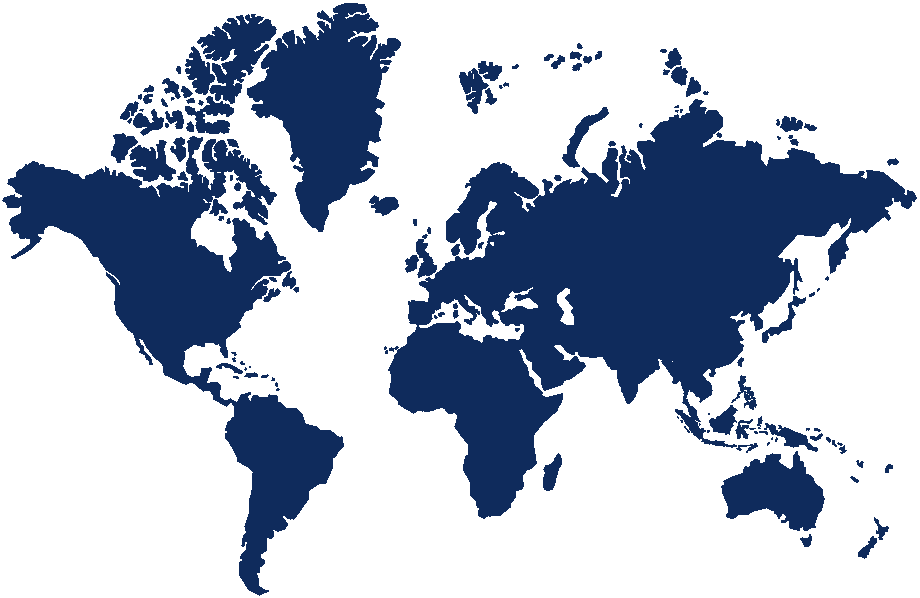
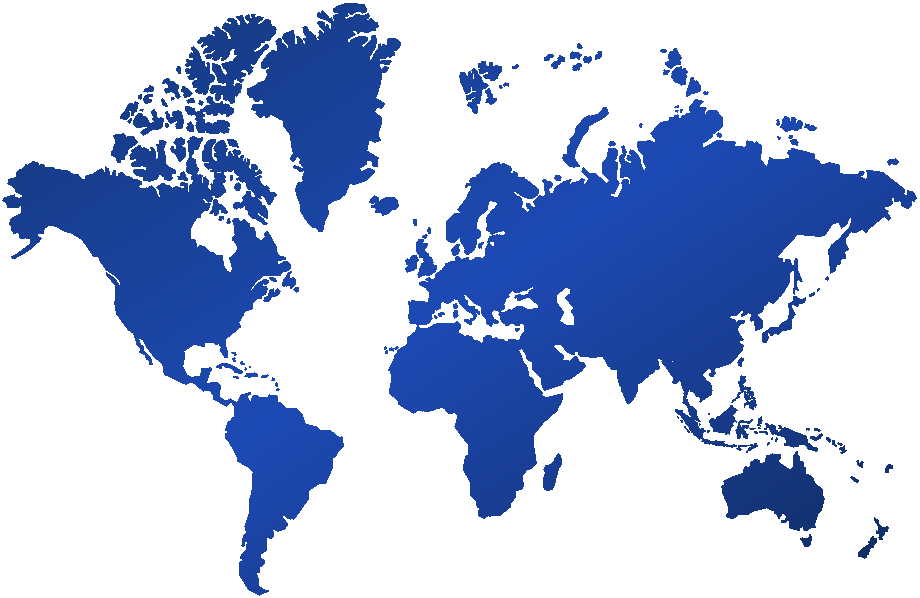
style(hero): match hero floating service card default and hover gradients with button states

diff --git a/styles.css b/styles.css
@@ -2680,7 +2680,7 @@ body.dark-theme .why-card-content .why-card-desc {
   bottom: calc(100% + 10px);
   left: 50%;
   transform: translateX(-50%);
-  background: #0f172a;
+  background: linear-gradient(135deg, #143877 0%, #1e4ab5 50%, #0f2b5c 100%);
   color: #ffffff;
   padding: 6px 14px;
   border-radius: var(--radius-pill);
@@ -2688,12 +2688,13 @@ body.dark-theme .why-card-content .why-card-desc {
   align-items: center;
   gap: 7px;
   white-space: nowrap;
-  box-shadow: 0 6px 20px rgba(15, 23, 42, 0.35);
-  border: 1px solid rgba(255, 255, 255, 0.15);
+  box-shadow: 0 8px 24px -3px rgba(6, 18, 40, 0.45), 0 0 16px rgba(18, 48, 105, 0.3);
+  border: 1px solid rgba(255, 255, 255, 0.25);
   z-index: 3;
-  transition: transform 0.2s cubic-bezier(0.34, 1.56, 0.64, 1);
+  transition: transform 0.2s cubic-bezier(0.34, 1.56, 0.64, 1), background 0.3s ease;
 }
 .hub-dispatch-pill:hover {
+  background: linear-gradient(135deg, #1e4ab5 0%, #2563eb 50%, #143877 100%);
   transform: translateX(-50%) translateY(-2px);
 }
 .hub-dispatch-pill::after {
@@ -2704,7 +2705,7 @@ body.dark-theme .why-card-content .why-card-desc {
   transform: translateX(-50%);
   border-width: 5px 5px 0 5px;
   border-style: solid;
-  border-color: #0f172a transparent transparent transparent;
+  border-color: #0f2b5c transparent transparent transparent;
 }
 .hub-badge-dot {
   width: 7px;
@@ -9715,8 +9716,21 @@ body.dark-theme .status-icon.icon-clock {
   color: #60a5fa;
 }
 body.dark-theme .areas-map-img {
-  filter: brightness(0) invert(40%) sepia(30%) saturate(600%) hue-rotate(185deg) brightness(80%);
-  opacity: 0.36;
+  content: url("assets/world-map-dark.png");
+  opacity: 0.95;
+  filter: drop-shadow(0 0 20px rgba(37, 99, 235, 0.35));
+}
+body.dark-theme .hub-dispatch-pill {
+  background: linear-gradient(135deg, #2563eb 0%, #1d4ed8 50%, #1e40af 100%);
+  border: 1px solid rgba(255, 255, 255, 0.32);
+  box-shadow: 0 4px 18px rgba(37, 99, 235, 0.5), 0 0 14px rgba(37, 99, 235, 0.3);
+}
+body.dark-theme .hub-dispatch-pill:hover {
+  background: linear-gradient(135deg, #3b82f6 0%, #2563eb 50%, #1d4ed8 100%);
+  box-shadow: 0 6px 24px rgba(37, 99, 235, 0.65);
+}
+body.dark-theme .hub-dispatch-pill::after {
+  border-color: #1e40af transparent transparent transparent;
 }
 body.dark-theme .route-origin-dot {
   fill: #60a5fa;
@@ -10091,16 +10105,17 @@ body.dark-theme .areas-cta-banner .btn-dispatch-call:hover svg {
 } /* Dark Theme Support */
 body.dark-theme .brand-filter-pill {
   background: #111a2e;
-  border-color: rgba(255, 255, 255, 0.1);
+  border: 1px solid rgba(96, 165, 250, 0.3);
   color: #cbd5e1;
 }
 body.dark-theme .brand-filter-pill:hover {
   border-color: #60a5fa;
   color: #ffffff;
+  box-shadow: 0 4px 16px rgba(37, 99, 235, 0.25);
 }
 body.dark-theme .brand-filter-pill.active {
   background: var(--btn-gradient-primary);
-  border-color: rgba(255, 255, 255, 0.25);
+  border-color: rgba(255, 255, 255, 0.35);
   color: #ffffff;
   box-shadow: 0 8px 22px rgba(6, 18, 40, 0.55);
 }
@@ -10142,13 +10157,13 @@ body.dark-theme .brands-logos-inner {
 }
 body.dark-theme .brand-curved-card {
   background-color: #121b2d;
-  border-color: rgba(96, 165, 250, 0.28);
-  box-shadow: 0 4px 16px rgba(0, 0, 0, 0.35);
+  border: 1.5px solid #2563eb;
+  box-shadow: 0 4px 18px rgba(0, 0, 0, 0.45), 0 0 12px rgba(37, 99, 235, 0.15);
 }
 body.dark-theme .brand-curved-card:hover {
   background-color: #18233a;
   border-color: #60a5fa;
-  box-shadow: 0 14px 30px rgba(0, 0, 0, 0.65);
+  box-shadow: 0 14px 32px rgba(0, 0, 0, 0.65), 0 0 20px rgba(96, 165, 250, 0.35);
 }
 body.dark-theme .brand-sub-tag {
   color: #cbd5e1;
@@ -10158,7 +10173,7 @@ body.dark-theme .brand-curved-card:hover .brand-sub-tag {
 }
 body.dark-theme .brand-card-footer {
   background-color: #0d1424;
-  border-top-color: rgba(255, 255, 255, 0.08);
+  border-top: 1px solid rgba(37, 99, 235, 0.3);
   color: #94a3b8;
 }
 body.dark-theme .brand-card-footer svg {
@@ -10166,7 +10181,7 @@ body.dark-theme .brand-card-footer svg {
 }
 body.dark-theme .brand-curved-card:hover .brand-card-footer {
   background-color: #1a2232;
-  border-top-color: rgba(96, 165, 250, 0.3);
+  border-top-color: rgba(96, 165, 250, 0.45);
   color: #60a5fa;
 }
 body.dark-theme .brand-curved-card:hover .brand-card-footer svg {
@@ -12100,7 +12115,7 @@ body.dark-theme .hero-trust-sticker.sticker-top .sticker-desc {
   z-index: 10;
   display: flex;
   flex-direction: column;
-  background: linear-gradient(135deg, #143877 0%, #1e4ab5 50%, #0f2b5c 100%);
+  background: var(--btn-gradient-primary);
   border: 1.5px solid rgba(255, 255, 255, 0.38);
   border-radius: 20px;
   padding: 16px 20px 18px 20px;
@@ -12112,18 +12127,28 @@ body.dark-theme .hero-trust-sticker.sticker-top .sticker-desc {
   user-select: none;
   min-width: 175px;
   box-sizing: border-box;
-  transition: transform 0.3s cubic-bezier(0.16, 1, 0.3, 1), box-shadow 0.3s ease;
+  cursor: pointer;
+  transition: transform 0.3s cubic-bezier(0.16, 1, 0.3, 1), box-shadow 0.3s ease, background 0.35s ease, border-color 0.3s ease;
 }
 
 .hero-floating-service-card:hover {
+  background: var(--btn-gradient-hover);
+  border-color: rgba(255, 255, 255, 0.55);
   transform: translateY(-4px);
-  box-shadow: 0 26px 56px rgba(10, 24, 52, 0.52), 0 6px 18px rgba(0, 0, 0, 0.3);
+  box-shadow: 0 26px 56px rgba(10, 24, 52, 0.55), 0 0 20px rgba(30, 74, 181, 0.4);
 }
 
 body.dark-theme .hero-floating-service-card {
-  background: linear-gradient(135deg, rgba(18, 48, 105, 0.96) 0%, rgba(30, 74, 181, 0.92) 50%, rgba(12, 28, 60, 0.98) 100%);
-  border-color: rgba(96, 165, 250, 0.45);
-  box-shadow: 0 20px 48px rgba(0, 0, 0, 0.65), 0 4px 14px rgba(0, 0, 0, 0.35);
+  background: linear-gradient(135deg, #2563eb 0%, #1d4ed8 50%, #1e40af 100%);
+  border-color: rgba(255, 255, 255, 0.25);
+  box-shadow: 0 20px 48px rgba(0, 0, 0, 0.65), 0 4px 20px rgba(37, 99, 235, 0.35);
+}
+
+body.dark-theme .hero-floating-service-card:hover {
+  background: linear-gradient(135deg, #3b82f6 0%, #2563eb 50%, #1d4ed8 100%);
+  border-color: rgba(147, 197, 253, 0.6);
+  transform: translateY(-4px);
+  box-shadow: 0 26px 56px rgba(0, 0, 0, 0.75), 0 0 28px rgba(59, 130, 246, 0.45);
 }
 
 .hf-card-caption {
